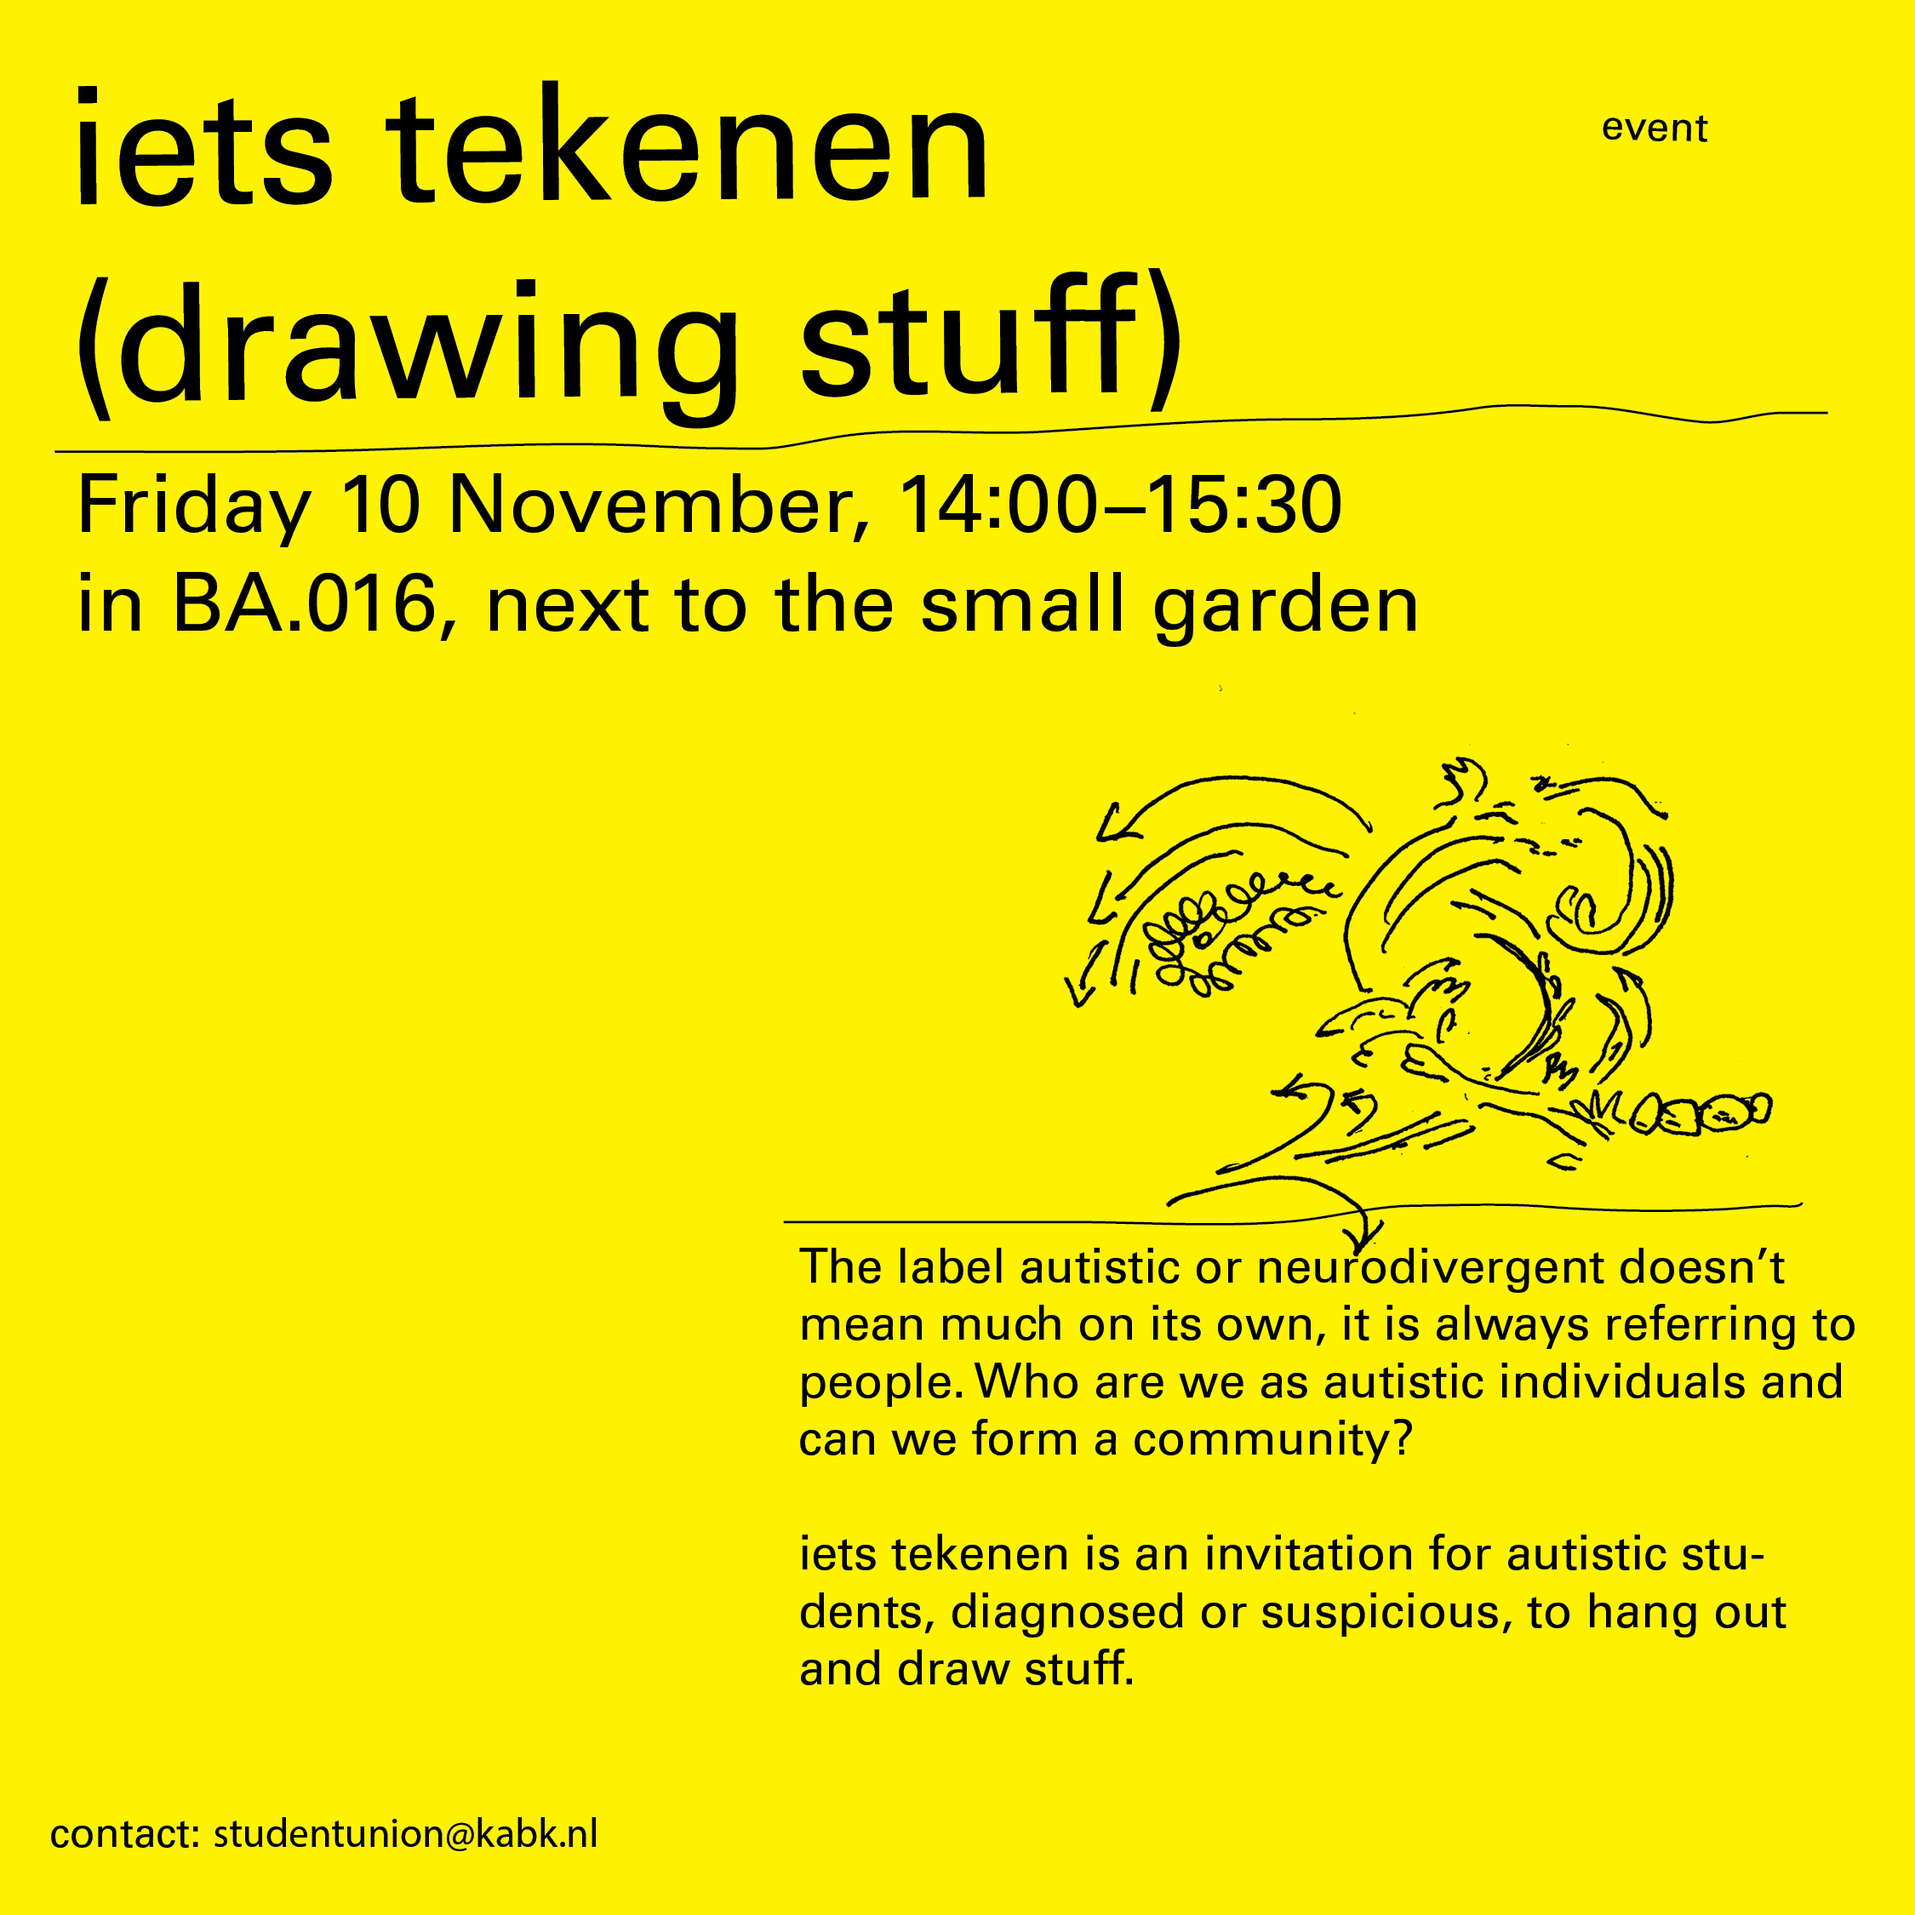
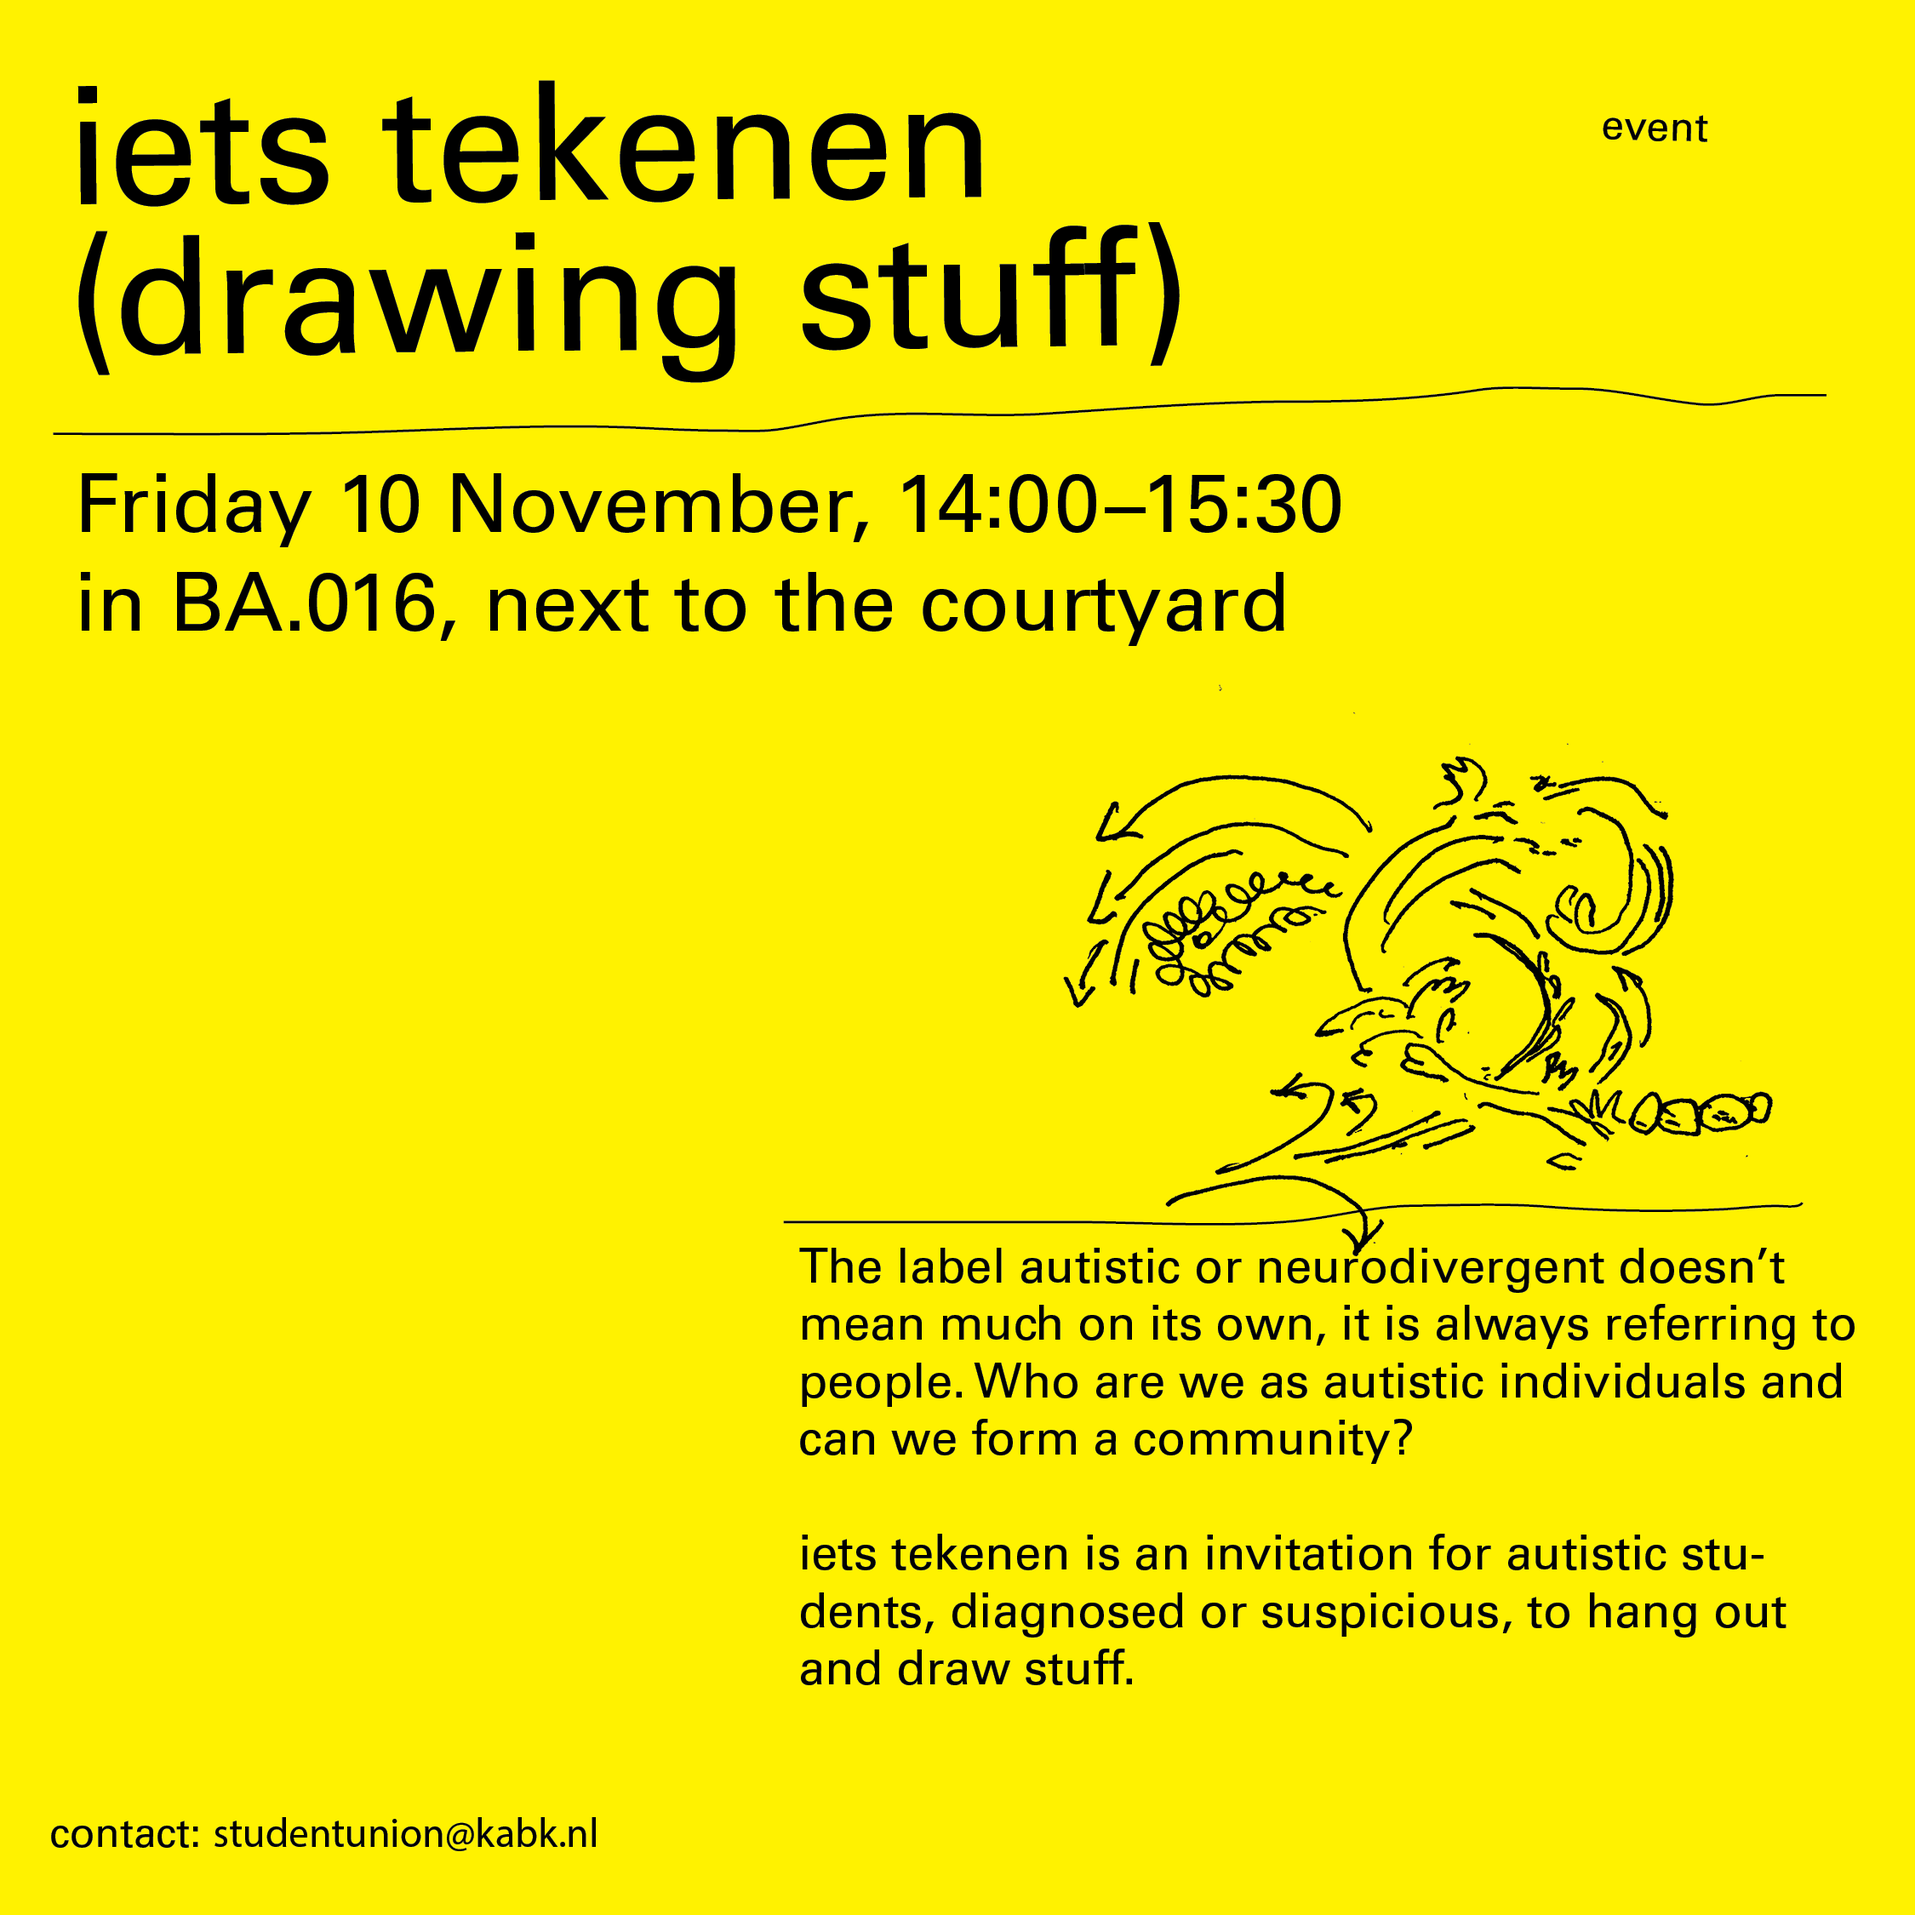
updated poster and hover effect

diff --git a/index.html b/index.html
@@ -32,7 +32,7 @@
        
 
         <div class="event">
-            <h4><li><h3><mark>iets tekenen (drawing stuff)</mark></h3>10 November 2023, 14:00 - 15:30<br>in BA.013, next to the small garden</li></h4>
+            <h4><li><h3><mark>iets tekenen (drawing stuff)</mark></h3>10 November 2023, 14:00 - 15:30<br>in BA.016, next to the courtyard</li></h4>
             <a href="/assets/student-union-tekenen-instagram_01.png"><img src="/assets/student-union-tekenen-instagram_01.png" alt="iets tekenen poster" id="poster"></a>
             <p>The label autistic or neurodivergent doesn't mean much on its own, it is always referring to people.
                 Who are we as autistic individuals and can we form a community?

diff --git a/style.css b/style.css
@@ -119,16 +119,11 @@ section img#badge {
 
 section img#poster {
     max-width: 20vh;
+    transform-box:view-box;
 }
 
 section img#poster:hover, img#poster:active {
-    -webkit-transform:scale(1.5);
-    transform:scale(1.5);
-    display: block;
-    width: auto;
-    margin-left: 40px;
-    margin-bottom: 40px;
-    margin-top: 20px;
+    max-width: 40vh;
 }
 
 .tekst {
